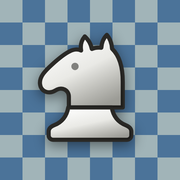
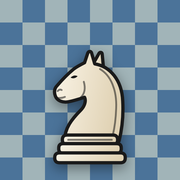
MK 1.5: entran las piezas de franco
Se van las que habia dibujado yo (el caballo nunca llego a parecer un caballo)
y entran las doce que armo franco, en SVG sobre viewBox 100x100 con la misma
linea de piso. Cada archivo trae su degrade con id propio (wN-fill, bN-fill,
...), asi que las doce se juntan en un mismo documento sin pisarse: se
verifico antes de mezclarlas.

Se les saca el bloque <metadata> de C2PA: 8 KB por pieza de procedencia que
adentro de la pagina no aporta nada. Las doce pasan de 113 KB a 23 KB.

Los dibujos dejan aire alrededor, asi que se agrandan un 14% tomando como
centro la base (50,94): crecen hacia arriba sin despegarse de la linea de
piso. Revisado que a ese tamano no se corte nada.

Los colores ahora vienen fijos adentro del SVG, no por variables. La tira de
comidas no puede repintarse mas, asi que se aplana con un filtro:
brightness(0) las deja negras conservando el alfa, y en tema oscuro un invert
las pasa a blancas.

Changed region(s): [[0.1944, 0.1667, 0.75, 0.9722]]

diff --git a/index.html b/index.html
@@ -31,10 +31,7 @@
     /* El tablero no cambia con el tema. Las piezas tienen que leerse igual
        a las 3 de la tarde y a las 2 de la manana. */
     --clara:#EAE9D2; --oscura:#4B7399; --marco:#302E2B;
-    --pieza-b-hi:#FFFFFF; --pieza-b-lo:#D2D2CA;
-    --pieza-b-borde:#2A2926; --pieza-b-det:rgba(40,40,36,.38);
-    --pieza-n-hi:#5A5653; --pieza-n-lo:#332F2D;
-    --pieza-n-borde:#1B1918; --pieza-n-det:rgba(228,224,218,.32);
+    /* Las piezas traen sus colores adentro del SVG; no hay variables. */
     /* El anillo va en ambar: un trazo solido no se mezcla con el fondo, asi
        que se lee igual sobre el blanco y sobre el azul. */
     --sel:#E8A621; --jaque:#D94530;
@@ -104,13 +101,17 @@
     display:flex; align-items:center; gap:0; flex:1 1 auto; min-width:0;
     overflow:hidden; height:23px;
   }
-  /* A 22px las comidas van como siluetas planas de un gris medio. Dejarlas
-     del color de la pieza las pierde (la negra sobre el tema oscuro, la
-     blanca sobre el claro) y el contorno a ese tamano no llega ni a un pixel.
-     De que color es cada una ya lo dice la fila en la que esta. */
+  /* A 22px las comidas van como siluetas planas. Los dibujos traen el color
+     adentro, asi que se aplanan con un filtro: brightness(0) las deja negras
+     conservando el alfa, y en el tema oscuro un invert las pasa a blancas.
+     De que color es cada pieza ya lo dice la fila en la que esta. */
   .jug .cap svg{
     width:22px; height:22px; margin-right:-8px;
-    --pz-fill:var(--soft); --pz-line:var(--soft); --pz-det:var(--soft);
+    filter:brightness(0) opacity(.5);
+  }
+  :root[data-tema="oscuro"] .jug .cap svg{filter:brightness(0) invert(1) opacity(.55);}
+  @media (prefers-color-scheme:dark){
+    :root:not([data-tema="claro"]) .jug .cap svg{filter:brightness(0) invert(1) opacity(.55);}
   }
   /* La ventaja de material se ve de los dos lados, como pastilla con signo. */
   .jug .vent{
@@ -335,69 +336,181 @@
 <body>
 
 <svg width="0" height="0" style="position:absolute" aria-hidden="true"><defs>
-  <!-- Juego propio, en el estilo plano con volumen: el relieve sale de un
-       degrade en el cuerpo mas la misma silueta repintada con una sombra que
-       cae hacia abajo y a la derecha. Las seis se apoyan en la misma peana
-       (el peon usa una mas angosta) para que lean como un mismo juego. -->
-  <linearGradient id="gr-b" x1=".22" y1="0" x2=".8" y2="1">
-    <stop offset="0" stop-color="var(--pieza-b-hi)"/><stop offset="1" stop-color="var(--pieza-b-lo)"/>
-  </linearGradient>
-  <linearGradient id="gr-n" x1=".22" y1="0" x2=".8" y2="1">
-    <stop offset="0" stop-color="var(--pieza-n-hi)"/><stop offset="1" stop-color="var(--pieza-n-lo)"/>
-  </linearGradient>
-  <linearGradient id="sombra" x1=".15" y1="0" x2=".7" y2="1">
-    <stop offset="0" stop-color="#000" stop-opacity="0"/>
-    <stop offset=".52" stop-color="#000" stop-opacity="0"/>
-    <stop offset="1" stop-color="#000" stop-opacity=".26"/>
-  </linearGradient>
-
-  <g id="p-base"><path d="M15.4 28.2h14.2c.5 2.9 2.1 4.8 4.6 5.8 1.2.5 1.8 1.1 1.8 2.1v1.2c0 .8-.65 1.45-1.45 1.45H10.45C9.65 38.75 9 38.1 9 37.3v-1.2c0-1 .6-1.6 1.8-2.1 2.5-1 4.1-2.9 4.6-5.8z"/></g>
-  <g id="p-base-ch"><path d="M17.6 28.6h9.8c.45 2.5 1.8 4.1 3.9 5.1 1 .45 1.55 1 1.55 1.9v1.1c0 .7-.58 1.28-1.28 1.28H13.43c-.7 0-1.28-.58-1.28-1.28v-1.1c0-.9.55-1.45 1.55-1.9 2.1-1 3.45-2.6 3.9-5.1z"/></g>
-
-  <g id="g-peon">
-    <circle cx="22.5" cy="11.4" r="4.9"/>
-    <path d="M18 15.6c1.3 1 2.8 1.6 4.5 1.6s3.2-.6 4.5-1.6c2.2 1.7 3.5 4.1 3.5 6.6 0 3.6-2.6 6.2-3.2 8.4H17.7c-.6-2.2-3.2-4.8-3.2-8.4 0-2.5 1.3-4.9 3.5-6.6z"/>
-    <use href="#p-base-ch"/>
+  <!-- Juego de piezas de franco, en viewBox 100x100 con la misma linea de
+       piso para las doce. Cada archivo trae su propio degrade con id propio
+       (wN-fill, bN-fill, ...), por eso se pueden juntar todos en un mismo
+       documento sin pisarse. Los colores vienen fijos en el dibujo: no siguen
+       el tema, igual que el tablero. -->
+  <g id="pz-wP">
+    <defs><linearGradient id="wP-fill" x1="0" y1="0" x2="1" y2="0.25"><stop offset="0" stop-color="#FBF5E8"/><stop offset="1" stop-color="#E0D2B4"/></linearGradient></defs>
+    <g stroke-linejoin="round" stroke-linecap="round">
+    <path d="M 35.6 84 C 36 79 38.7 76.1 40.5 75.5 C 41.7 69.5 44.6 70.55 44.6 66.5 L 55.4 66.5 C 55.4 70.55 58.3 69.5 59.5 75.5 C 61.3 76.1 64 79 64.4 84 Z" fill="url(#wP-fill)" stroke="#1a1a1a" stroke-width="1.8"/>
+    <path d="M 40.8 75.5 Q 50 77.7 59.2 75.5" fill="none" stroke="#1a1a1a" stroke-opacity=".55" stroke-width="1"/>
+    <path d="M 50 47 A 8.2 8.2 0 1 1 49.99 47 Z" fill="url(#wP-fill)" stroke="#1a1a1a" stroke-width="1.8"/>
+    <path d="M 42.7 62.4 L 57.3 62.4 Q 59.5 62.4 59.5 64.6 L 59.5 64.6 Q 59.5 66.8 57.3 66.8 L 42.7 66.8 Q 40.5 66.8 40.5 64.6 L 40.5 64.6 Q 40.5 62.4 42.7 62.4 Z" fill="url(#wP-fill)" stroke="#1a1a1a" stroke-width="1.8"/>
+    <path d="M 37.2 83.5 L 62.8 83.5 Q 65.2 83.5 65.2 85.9 L 65.2 86.4 Q 65.2 88.8 62.8 88.8 L 37.2 88.8 Q 34.8 88.8 34.8 86.4 L 34.8 85.9 Q 34.8 83.5 37.2 83.5 Z" fill="url(#wP-fill)" stroke="#1a1a1a" stroke-width="1.8"/>
+    <path d="M 35.2 88.6 L 64.8 88.6 Q 67.4 88.6 67.4 91.2 L 67.4 91.4 Q 67.4 94 64.8 94 L 35.2 94 Q 32.6 94 32.6 91.4 L 32.6 91.2 Q 32.6 88.6 35.2 88.6 Z" fill="url(#wP-fill)" stroke="#1a1a1a" stroke-width="1.8"/>
+    </g>
   </g>
-  <g id="g-torre">
-    <path d="M11.4 8.8h5v3.1h4.1V8.8h4v3.1h4.1V8.8h5v7.2H11.4z"/>
-    <path d="M10.4 16h24.2c.75 0 1.35.6 1.35 1.35v1.5c0 .75-.6 1.35-1.35 1.35H10.4c-.75 0-1.35-.6-1.35-1.35v-1.5c0-.75.6-1.35 1.35-1.35z"/>
-    <path d="M13.8 20.2h17.4l-1.5 8H15.3z"/>
-    <use href="#p-base"/>
+  <g id="pz-bP">
+    <defs><linearGradient id="bP-fill" x1="0" y1="0" x2="1" y2="0.25"><stop offset="0" stop-color="#4a4a4a"/><stop offset="1" stop-color="#1a1a1a"/></linearGradient></defs>
+    <g stroke-linejoin="round" stroke-linecap="round">
+    <path d="M 35.6 84 C 36 79 38.7 76.1 40.5 75.5 C 41.7 69.5 44.6 70.55 44.6 66.5 L 55.4 66.5 C 55.4 70.55 58.3 69.5 59.5 75.5 C 61.3 76.1 64 79 64.4 84 Z" fill="url(#bP-fill)" stroke="#0a0a0a" stroke-width="1.8"/>
+    <path d="M 40.8 75.5 Q 50 77.7 59.2 75.5" fill="none" stroke="#8a8a8a" stroke-opacity=".55" stroke-width="1"/>
+    <path d="M 50 47 A 8.2 8.2 0 1 1 49.99 47 Z" fill="url(#bP-fill)" stroke="#0a0a0a" stroke-width="1.8"/>
+    <path d="M 42.7 62.4 L 57.3 62.4 Q 59.5 62.4 59.5 64.6 L 59.5 64.6 Q 59.5 66.8 57.3 66.8 L 42.7 66.8 Q 40.5 66.8 40.5 64.6 L 40.5 64.6 Q 40.5 62.4 42.7 62.4 Z" fill="url(#bP-fill)" stroke="#0a0a0a" stroke-width="1.8"/>
+    <path d="M 37.2 83.5 L 62.8 83.5 Q 65.2 83.5 65.2 85.9 L 65.2 86.4 Q 65.2 88.8 62.8 88.8 L 37.2 88.8 Q 34.8 88.8 34.8 86.4 L 34.8 85.9 Q 34.8 83.5 37.2 83.5 Z" fill="url(#bP-fill)" stroke="#0a0a0a" stroke-width="1.8"/>
+    <path d="M 35.2 88.6 L 64.8 88.6 Q 67.4 88.6 67.4 91.2 L 67.4 91.4 Q 67.4 94 64.8 94 L 35.2 94 Q 32.6 94 32.6 91.4 L 32.6 91.2 Q 32.6 88.6 35.2 88.6 Z" fill="url(#bP-fill)" stroke="#0a0a0a" stroke-width="1.8"/>
+    </g>
   </g>
-  <g id="g-alfil">
-    <circle cx="22.5" cy="7" r="2.1"/>
-    <path d="M22.5 9.2c4.2 3.3 7.3 7.4 7.3 11.1 0 3.7-3.3 6-7.3 6s-7.3-2.3-7.3-6c0-3.7 3.1-7.8 7.3-11.1z"/>
-    <path d="M15.8 25.9h13.4c.8 1.2 1.3 2.3 1.4 3.5H14.4c.1-1.2.6-2.3 1.4-3.5z"/>
-    <use href="#p-base"/>
+  <g id="pz-wN">
+    <defs><linearGradient id="wN-fill" x1="0" y1="0" x2="1" y2="0.25"><stop offset="0" stop-color="#FBF5E8"/><stop offset="1" stop-color="#E0D2B4"/></linearGradient></defs>
+    <g stroke-linejoin="round" stroke-linecap="round">
+    <path d="M 51.5 37 L 55 30.8 C 55.6 30 56.6 30.3 56.7 31.2 L 57.4 38.6 Z" fill="url(#wN-fill)" stroke="#1a1a1a" stroke-width="1.8" transform="translate(0 3)"/>
+    <path d="M 36 79 C 36 72 40 67 45 62 C 47 60 48 57 47 55 C 44 56 41 57 38 57.5 C 35 58 32 57 31 54.5 C 30 52 30.5 50 32 48.5 C 35 45 38 42 41 39.5 C 43 38 45 37 47 36 L 48.8 30.6 C 49.3 29.6 50.3 29.6 50.8 30.4 L 52.6 36.6 C 61 38 67.5 45.5 68 57 C 68.5 66 67.5 73 66 79 Z" fill="url(#wN-fill)" stroke="#1a1a1a" stroke-width="1.8" transform="translate(0 3)"/>
+    <path d="M 39.3 44.2 Q 41.2 42.4 43.2 43.4 Q 41.4 45.2 39.3 44.2 Z" fill="#1a1a1a" stroke="none" transform="translate(0 3)"/>
+    <path d="M 32.2 51.6 Q 33.2 50.4 34.4 51" fill="none" stroke="#1a1a1a" stroke-opacity=".55" stroke-width="1" transform="translate(0 3)"/>
+    <path d="M 31.6 55.2 Q 34 55.8 36.2 54.8" fill="none" stroke="#1a1a1a" stroke-opacity=".55" stroke-width="1" transform="translate(0 3)"/>
+    <path d="M 46.6 46.5 C 47.6 50 47 53 45 55" fill="none" stroke="#1a1a1a" stroke-opacity=".55" stroke-width="1" transform="translate(0 3)"/>
+    <path d="M 55.5 39.5 C 61.5 43 64.8 51 64.4 61 C 64.2 67 63.5 72 62.5 76" fill="none" stroke="#1a1a1a" stroke-opacity=".55" stroke-width="1" transform="translate(0 3)"/>
+    <path d="M 37.4 78.8 L 62.6 78.8 Q 65.2 78.8 65.2 81.4 L 65.2 81.4 Q 65.2 84 62.6 84 L 37.4 84 Q 34.8 84 34.8 81.4 L 34.8 81.4 Q 34.8 78.8 37.4 78.8 Z" fill="url(#wN-fill)" stroke="#1a1a1a" stroke-width="1.8"/>
+    <path d="M 38 81.4 L 62 81.4" fill="none" stroke="#1a1a1a" stroke-opacity=".55" stroke-width="1"/>
+    <path d="M 35.2 83.5 L 64.8 83.5 Q 67.2 83.5 67.2 85.9 L 67.2 86.4 Q 67.2 88.8 64.8 88.8 L 35.2 88.8 Q 32.8 88.8 32.8 86.4 L 32.8 85.9 Q 32.8 83.5 35.2 83.5 Z" fill="url(#wN-fill)" stroke="#1a1a1a" stroke-width="1.8"/>
+    <path d="M 33.2 88.6 L 66.8 88.6 Q 69.4 88.6 69.4 91.2 L 69.4 91.4 Q 69.4 94 66.8 94 L 33.2 94 Q 30.6 94 30.6 91.4 L 30.6 91.2 Q 30.6 88.6 33.2 88.6 Z" fill="url(#wN-fill)" stroke="#1a1a1a" stroke-width="1.8"/>
+    </g>
   </g>
-  <g id="g-dama">
-    <circle cx="9.6" cy="14.6" r="2.4"/><circle cx="16" cy="11.2" r="2.4"/>
-    <circle cx="22.5" cy="9.8" r="2.6"/>
-    <circle cx="29" cy="11.2" r="2.4"/><circle cx="35.4" cy="14.6" r="2.4"/>
-    <path d="M10.2 16.2l3.4 11.4h17.8l3.4-11.4-5.9 5.2-2.7-8.2-3.3 8.6h-2.8l-3.3-8.6-2.7 8.2z"/>
-    <path d="M13.2 27.6h18.6c.7 0 1.25.55 1.25 1.25v.7c0 .7-.55 1.25-1.25 1.25H13.2c-.7 0-1.25-.55-1.25-1.25v-.7c0-.7.55-1.25 1.25-1.25z"/>
-    <use href="#p-base"/>
+  <g id="pz-bN">
+    <defs><linearGradient id="bN-fill" x1="0" y1="0" x2="1" y2="0.25"><stop offset="0" stop-color="#4a4a4a"/><stop offset="1" stop-color="#1a1a1a"/></linearGradient></defs>
+    <g stroke-linejoin="round" stroke-linecap="round">
+    <path d="M 51.5 37 L 55 30.8 C 55.6 30 56.6 30.3 56.7 31.2 L 57.4 38.6 Z" fill="url(#bN-fill)" stroke="#0a0a0a" stroke-width="1.8" transform="translate(0 3)"/>
+    <path d="M 36 79 C 36 72 40 67 45 62 C 47 60 48 57 47 55 C 44 56 41 57 38 57.5 C 35 58 32 57 31 54.5 C 30 52 30.5 50 32 48.5 C 35 45 38 42 41 39.5 C 43 38 45 37 47 36 L 48.8 30.6 C 49.3 29.6 50.3 29.6 50.8 30.4 L 52.6 36.6 C 61 38 67.5 45.5 68 57 C 68.5 66 67.5 73 66 79 Z" fill="url(#bN-fill)" stroke="#0a0a0a" stroke-width="1.8" transform="translate(0 3)"/>
+    <path d="M 39.3 44.2 Q 41.2 42.4 43.2 43.4 Q 41.4 45.2 39.3 44.2 Z" fill="#9a9a9a" stroke="none" transform="translate(0 3)"/>
+    <path d="M 32.2 51.6 Q 33.2 50.4 34.4 51" fill="none" stroke="#8a8a8a" stroke-opacity=".55" stroke-width="1" transform="translate(0 3)"/>
+    <path d="M 31.6 55.2 Q 34 55.8 36.2 54.8" fill="none" stroke="#8a8a8a" stroke-opacity=".55" stroke-width="1" transform="translate(0 3)"/>
+    <path d="M 46.6 46.5 C 47.6 50 47 53 45 55" fill="none" stroke="#8a8a8a" stroke-opacity=".55" stroke-width="1" transform="translate(0 3)"/>
+    <path d="M 55.5 39.5 C 61.5 43 64.8 51 64.4 61 C 64.2 67 63.5 72 62.5 76" fill="none" stroke="#8a8a8a" stroke-opacity=".55" stroke-width="1" transform="translate(0 3)"/>
+    <path d="M 37.4 78.8 L 62.6 78.8 Q 65.2 78.8 65.2 81.4 L 65.2 81.4 Q 65.2 84 62.6 84 L 37.4 84 Q 34.8 84 34.8 81.4 L 34.8 81.4 Q 34.8 78.8 37.4 78.8 Z" fill="url(#bN-fill)" stroke="#0a0a0a" stroke-width="1.8"/>
+    <path d="M 38 81.4 L 62 81.4" fill="none" stroke="#8a8a8a" stroke-opacity=".55" stroke-width="1"/>
+    <path d="M 35.2 83.5 L 64.8 83.5 Q 67.2 83.5 67.2 85.9 L 67.2 86.4 Q 67.2 88.8 64.8 88.8 L 35.2 88.8 Q 32.8 88.8 32.8 86.4 L 32.8 85.9 Q 32.8 83.5 35.2 83.5 Z" fill="url(#bN-fill)" stroke="#0a0a0a" stroke-width="1.8"/>
+    <path d="M 33.2 88.6 L 66.8 88.6 Q 69.4 88.6 69.4 91.2 L 69.4 91.4 Q 69.4 94 66.8 94 L 33.2 94 Q 30.6 94 30.6 91.4 L 30.6 91.2 Q 30.6 88.6 33.2 88.6 Z" fill="url(#bN-fill)" stroke="#0a0a0a" stroke-width="1.8"/>
+    </g>
   </g>
-  <g id="g-rey">
-    <path d="M20.9 4.6h3.2v3.2h3.2v2.8h-3.2v3.6h-3.2v-3.6h-3.2V7.8h3.2z"/>
-    <path d="M22.5 13.9c4.2 0 7.5 1.8 9.4 4.4 2.5 3.5 1.9 7.9-.9 10.6H14c-2.8-2.7-3.4-7.1-.9-10.6 1.9-2.6 5.2-4.4 9.4-4.4z"/>
-    <use href="#p-base"/>
+  <g id="pz-wB">
+    <defs><linearGradient id="wB-fill" x1="0" y1="0" x2="1" y2="0.25"><stop offset="0" stop-color="#FBF5E8"/><stop offset="1" stop-color="#E0D2B4"/></linearGradient></defs>
+    <g stroke-linejoin="round" stroke-linecap="round">
+    <path d="M 34.9 84 C 35.3 79 38.23 76.1 40.03 75.5 C 41.23 69.5 45 67.53 45 61 L 55 61 C 55 67.53 58.77 69.5 59.97 75.5 C 61.77 76.1 64.7 79 65.1 84 Z" fill="url(#wB-fill)" stroke="#1a1a1a" stroke-width="1.8"/>
+    <path d="M 40.33 75.5 Q 50 77.7 59.67 75.5" fill="none" stroke="#1a1a1a" stroke-opacity=".55" stroke-width="1"/>
+    <path d="M 44 55 C 38 51 37.5 43.5 41 38.5 C 44 34.8 47 33.6 50 32 C 53 33.6 56 34.8 59 38.5 C 62.5 43.5 62 51 56 55 Z" fill="url(#wB-fill)" stroke="#1a1a1a" stroke-width="1.8"/>
+    <path d="M 50 26 A 3 3 0 1 1 49.99 26 Z" fill="url(#wB-fill)" stroke="#1a1a1a" stroke-width="1.8"/>
+    <path d="M 44.2 57.6 L 55.8 57.6 Q 57.5 57.6 57.5 59.3 L 57.5 59.3 Q 57.5 61 55.8 61 L 44.2 61 Q 42.5 61 42.5 59.3 L 42.5 59.3 Q 42.5 57.6 44.2 57.6 Z" fill="url(#wB-fill)" stroke="#1a1a1a" stroke-width="1.8"/>
+    <path d="M 42.2 53.4 L 57.8 53.4 Q 60 53.4 60 55.6 L 60 55.6 Q 60 57.8 57.8 57.8 L 42.2 57.8 Q 40 57.8 40 55.6 L 40 55.6 Q 40 53.4 42.2 53.4 Z" fill="url(#wB-fill)" stroke="#1a1a1a" stroke-width="1.8"/>
+    <path d="M 52.6 40.5 L 47.6 46.5" fill="none" stroke="#1a1a1a" stroke-width="2.4"/>
+    <path d="M 36 83.5 L 64 83.5 Q 66.4 83.5 66.4 85.9 L 66.4 86.4 Q 66.4 88.8 64 88.8 L 36 88.8 Q 33.6 88.8 33.6 86.4 L 33.6 85.9 Q 33.6 83.5 36 83.5 Z" fill="url(#wB-fill)" stroke="#1a1a1a" stroke-width="1.8"/>
+    <path d="M 34 88.6 L 66 88.6 Q 68.6 88.6 68.6 91.2 L 68.6 91.4 Q 68.6 94 66 94 L 34 94 Q 31.4 94 31.4 91.4 L 31.4 91.2 Q 31.4 88.6 34 88.6 Z" fill="url(#wB-fill)" stroke="#1a1a1a" stroke-width="1.8"/>
+    </g>
   </g>
-  <g id="g-caballo">
-    <path d="M19.6 9.6c-.3-1.7.1-3.3 1.2-4.6 1.2 1.1 2 2.5 2.3 4.1 1-.4 2-.5 3.1-.4.1-1.7.7-3.1 1.8-4.2 1.1 1.3 1.6 2.8 1.7 4.5 2.4 2.3 3.5 5.9 3.5 10.8v8.4H15.6v-3.5c0-2.2-2.3-3.4-4.3-2.1-2.3 1.4-4.8.4-5.1-1.9-.4-2.5 1.8-4.6 4-6.6 2.1-1.9 4-3.4 5.6-4.2 1.3-.7 2.7-.8 3.8-.3z"/>
-    <use href="#p-base"/>
+  <g id="pz-bB">
+    <defs><linearGradient id="bB-fill" x1="0" y1="0" x2="1" y2="0.25"><stop offset="0" stop-color="#4a4a4a"/><stop offset="1" stop-color="#1a1a1a"/></linearGradient></defs>
+    <g stroke-linejoin="round" stroke-linecap="round">
+    <path d="M 34.9 84 C 35.3 79 38.23 76.1 40.03 75.5 C 41.23 69.5 45 67.53 45 61 L 55 61 C 55 67.53 58.77 69.5 59.97 75.5 C 61.77 76.1 64.7 79 65.1 84 Z" fill="url(#bB-fill)" stroke="#0a0a0a" stroke-width="1.8"/>
+    <path d="M 40.33 75.5 Q 50 77.7 59.67 75.5" fill="none" stroke="#8a8a8a" stroke-opacity=".55" stroke-width="1"/>
+    <path d="M 44 55 C 38 51 37.5 43.5 41 38.5 C 44 34.8 47 33.6 50 32 C 53 33.6 56 34.8 59 38.5 C 62.5 43.5 62 51 56 55 Z" fill="url(#bB-fill)" stroke="#0a0a0a" stroke-width="1.8"/>
+    <path d="M 50 26 A 3 3 0 1 1 49.99 26 Z" fill="url(#bB-fill)" stroke="#0a0a0a" stroke-width="1.8"/>
+    <path d="M 44.2 57.6 L 55.8 57.6 Q 57.5 57.6 57.5 59.3 L 57.5 59.3 Q 57.5 61 55.8 61 L 44.2 61 Q 42.5 61 42.5 59.3 L 42.5 59.3 Q 42.5 57.6 44.2 57.6 Z" fill="url(#bB-fill)" stroke="#0a0a0a" stroke-width="1.8"/>
+    <path d="M 42.2 53.4 L 57.8 53.4 Q 60 53.4 60 55.6 L 60 55.6 Q 60 57.8 57.8 57.8 L 42.2 57.8 Q 40 57.8 40 55.6 L 40 55.6 Q 40 53.4 42.2 53.4 Z" fill="url(#bB-fill)" stroke="#0a0a0a" stroke-width="1.8"/>
+    <path d="M 52.6 40.5 L 47.6 46.5" fill="none" stroke="#9a9a9a" stroke-width="2.4"/>
+    <path d="M 36 83.5 L 64 83.5 Q 66.4 83.5 66.4 85.9 L 66.4 86.4 Q 66.4 88.8 64 88.8 L 36 88.8 Q 33.6 88.8 33.6 86.4 L 33.6 85.9 Q 33.6 83.5 36 83.5 Z" fill="url(#bB-fill)" stroke="#0a0a0a" stroke-width="1.8"/>
+    <path d="M 34 88.6 L 66 88.6 Q 68.6 88.6 68.6 91.2 L 68.6 91.4 Q 68.6 94 66 94 L 34 94 Q 31.4 94 31.4 91.4 L 31.4 91.2 Q 31.4 88.6 34 88.6 Z" fill="url(#bB-fill)" stroke="#0a0a0a" stroke-width="1.8"/>
+    </g>
   </g>
-
-  <!-- Lo minimo que hace falta para que se entienda cada forma. -->
-  <g id="d-peon"><path d="M18.2 15.7c2.6 1.7 5.9 1.7 8.5 0"/></g>
-  <g id="d-torre"><path d="M13.8 20.2h17.4"/></g>
-  <g id="d-alfil"><path d="M20 13.9l5 5"/></g>
-  <g id="d-dama"><path d="M13.6 27.6h17.8"/></g>
-  <g id="d-rey"><path d="M22.5 15v9.6M17.9 19.8h9.2"/></g>
-  <g id="d-caballo"><circle cx="17.6" cy="14.8" r="1.2" stroke="none"/></g>
-  <g id="d-base"><path d="M15.4 28.2h14.2"/></g>
-  <g id="d-base-ch"><path d="M17.6 28.6h9.8"/></g>
+  <g id="pz-wR">
+    <defs><linearGradient id="wR-fill" x1="0" y1="0" x2="1" y2="0.25"><stop offset="0" stop-color="#FBF5E8"/><stop offset="1" stop-color="#E0D2B4"/></linearGradient></defs>
+    <g stroke-linejoin="round" stroke-linecap="round">
+    <path d="M 32.6 84 C 33 79 34.28 76.1 36.08 75.5 C 37.28 69.5 39.4 59.55 39.4 46.5 L 60.6 46.5 C 60.6 59.55 62.72 69.5 63.92 75.5 C 65.72 76.1 67 79 67.4 84 Z" fill="url(#wR-fill)" stroke="#1a1a1a" stroke-width="1.8"/>
+    <path d="M 36.38 75.5 Q 50 77.7 63.62 75.5" fill="none" stroke="#1a1a1a" stroke-opacity=".55" stroke-width="1"/>
+    <path d="M 36.5 42.8 L 36.5 29.5 L 42.2 29.5 L 42.2 33.8 L 47.1 33.8 L 47.1 29.5 L 52.9 29.5 L 52.9 33.8 L 57.8 33.8 L 57.8 29.5 L 63.5 29.5 L 63.5 42.8 Z" fill="url(#wR-fill)" stroke="#1a1a1a" stroke-width="1.8"/>
+    <path d="M 39.3 42.2 L 60.7 42.2 Q 63 42.2 63 44.5 L 63 44.5 Q 63 46.8 60.7 46.8 L 39.3 46.8 Q 37 46.8 37 44.5 L 37 44.5 Q 37 42.2 39.3 42.2 Z" fill="url(#wR-fill)" stroke="#1a1a1a" stroke-width="1.8"/>
+    <path d="M 34 83.5 L 66 83.5 Q 68.4 83.5 68.4 85.9 L 68.4 86.4 Q 68.4 88.8 66 88.8 L 34 88.8 Q 31.6 88.8 31.6 86.4 L 31.6 85.9 Q 31.6 83.5 34 83.5 Z" fill="url(#wR-fill)" stroke="#1a1a1a" stroke-width="1.8"/>
+    <path d="M 32 88.6 L 68 88.6 Q 70.6 88.6 70.6 91.2 L 70.6 91.4 Q 70.6 94 68 94 L 32 94 Q 29.4 94 29.4 91.4 L 29.4 91.2 Q 29.4 88.6 32 88.6 Z" fill="url(#wR-fill)" stroke="#1a1a1a" stroke-width="1.8"/>
+    </g>
+  </g>
+  <g id="pz-bR">
+    <defs><linearGradient id="bR-fill" x1="0" y1="0" x2="1" y2="0.25"><stop offset="0" stop-color="#4a4a4a"/><stop offset="1" stop-color="#1a1a1a"/></linearGradient></defs>
+    <g stroke-linejoin="round" stroke-linecap="round">
+    <path d="M 32.6 84 C 33 79 34.28 76.1 36.08 75.5 C 37.28 69.5 39.4 59.55 39.4 46.5 L 60.6 46.5 C 60.6 59.55 62.72 69.5 63.92 75.5 C 65.72 76.1 67 79 67.4 84 Z" fill="url(#bR-fill)" stroke="#0a0a0a" stroke-width="1.8"/>
+    <path d="M 36.38 75.5 Q 50 77.7 63.62 75.5" fill="none" stroke="#8a8a8a" stroke-opacity=".55" stroke-width="1"/>
+    <path d="M 36.5 42.8 L 36.5 29.5 L 42.2 29.5 L 42.2 33.8 L 47.1 33.8 L 47.1 29.5 L 52.9 29.5 L 52.9 33.8 L 57.8 33.8 L 57.8 29.5 L 63.5 29.5 L 63.5 42.8 Z" fill="url(#bR-fill)" stroke="#0a0a0a" stroke-width="1.8"/>
+    <path d="M 39.3 42.2 L 60.7 42.2 Q 63 42.2 63 44.5 L 63 44.5 Q 63 46.8 60.7 46.8 L 39.3 46.8 Q 37 46.8 37 44.5 L 37 44.5 Q 37 42.2 39.3 42.2 Z" fill="url(#bR-fill)" stroke="#0a0a0a" stroke-width="1.8"/>
+    <path d="M 34 83.5 L 66 83.5 Q 68.4 83.5 68.4 85.9 L 68.4 86.4 Q 68.4 88.8 66 88.8 L 34 88.8 Q 31.6 88.8 31.6 86.4 L 31.6 85.9 Q 31.6 83.5 34 83.5 Z" fill="url(#bR-fill)" stroke="#0a0a0a" stroke-width="1.8"/>
+    <path d="M 32 88.6 L 68 88.6 Q 70.6 88.6 70.6 91.2 L 70.6 91.4 Q 70.6 94 68 94 L 32 94 Q 29.4 94 29.4 91.4 L 29.4 91.2 Q 29.4 88.6 32 88.6 Z" fill="url(#bR-fill)" stroke="#0a0a0a" stroke-width="1.8"/>
+    </g>
+  </g>
+  <g id="pz-wQ">
+    <defs><linearGradient id="wQ-fill" x1="0" y1="0" x2="1" y2="0.25"><stop offset="0" stop-color="#FBF5E8"/><stop offset="1" stop-color="#E0D2B4"/></linearGradient></defs>
+    <g stroke-linejoin="round" stroke-linecap="round">
+    <path d="M 32.9 84 C 33.3 79 36.91 76.1 38.71 75.5 C 39.91 69.5 44.4 63.4 44.4 53.5 L 55.6 53.5 C 55.6 63.4 60.09 69.5 61.29 75.5 C 63.09 76.1 66.7 79 67.1 84 Z" fill="url(#wQ-fill)" stroke="#1a1a1a" stroke-width="1.8"/>
+    <path d="M 39.01 75.5 Q 50 77.7 60.99 75.5" fill="none" stroke="#1a1a1a" stroke-opacity=".55" stroke-width="1"/>
+    <path d="M 44.5 48 C 40 45 36 40 34 32 L 38.6 38 L 41 28 L 45.6 35.6 L 50 25 L 54.4 35.6 L 59 28 L 61.4 38 L 66 32 C 64 40 60 45 55.5 48 Z" fill="url(#wQ-fill)" stroke="#1a1a1a" stroke-width="1.8"/>
+    <path d="M 34 27.4 A 2.4 2.4 0 1 1 33.99 27.4 Z" fill="url(#wQ-fill)" stroke="#1a1a1a" stroke-width="1.8"/>
+    <path d="M 41 23.4 A 2.4 2.4 0 1 1 40.99 23.4 Z" fill="url(#wQ-fill)" stroke="#1a1a1a" stroke-width="1.8"/>
+    <path d="M 50 20.4 A 2.4 2.4 0 1 1 49.99 20.4 Z" fill="url(#wQ-fill)" stroke="#1a1a1a" stroke-width="1.8"/>
+    <path d="M 59 23.4 A 2.4 2.4 0 1 1 58.99 23.4 Z" fill="url(#wQ-fill)" stroke="#1a1a1a" stroke-width="1.8"/>
+    <path d="M 66 27.4 A 2.4 2.4 0 1 1 65.99 27.4 Z" fill="url(#wQ-fill)" stroke="#1a1a1a" stroke-width="1.8"/>
+    <path d="M 43.3 50.2 L 56.7 50.2 Q 58.5 50.2 58.5 52 L 58.5 52 Q 58.5 53.8 56.7 53.8 L 43.3 53.8 Q 41.5 53.8 41.5 52 L 41.5 52 Q 41.5 50.2 43.3 50.2 Z" fill="url(#wQ-fill)" stroke="#1a1a1a" stroke-width="1.8"/>
+    <path d="M 41.4 45.8 L 58.6 45.8 Q 61 45.8 61 48.2 L 61 48.2 Q 61 50.6 58.6 50.6 L 41.4 50.6 Q 39 50.6 39 48.2 L 39 48.2 Q 39 45.8 41.4 45.8 Z" fill="url(#wQ-fill)" stroke="#1a1a1a" stroke-width="1.8"/>
+    <path d="M 39.5 42.5 Q 50 45 60.5 42.5" fill="none" stroke="#1a1a1a" stroke-opacity=".55" stroke-width="1"/>
+    <path d="M 34 83.5 L 66 83.5 Q 68.4 83.5 68.4 85.9 L 68.4 86.4 Q 68.4 88.8 66 88.8 L 34 88.8 Q 31.6 88.8 31.6 86.4 L 31.6 85.9 Q 31.6 83.5 34 83.5 Z" fill="url(#wQ-fill)" stroke="#1a1a1a" stroke-width="1.8"/>
+    <path d="M 32 88.6 L 68 88.6 Q 70.6 88.6 70.6 91.2 L 70.6 91.4 Q 70.6 94 68 94 L 32 94 Q 29.4 94 29.4 91.4 L 29.4 91.2 Q 29.4 88.6 32 88.6 Z" fill="url(#wQ-fill)" stroke="#1a1a1a" stroke-width="1.8"/>
+    </g>
+  </g>
+  <g id="pz-bQ">
+    <defs><linearGradient id="bQ-fill" x1="0" y1="0" x2="1" y2="0.25"><stop offset="0" stop-color="#4a4a4a"/><stop offset="1" stop-color="#1a1a1a"/></linearGradient></defs>
+    <g stroke-linejoin="round" stroke-linecap="round">
+    <path d="M 32.9 84 C 33.3 79 36.91 76.1 38.71 75.5 C 39.91 69.5 44.4 63.4 44.4 53.5 L 55.6 53.5 C 55.6 63.4 60.09 69.5 61.29 75.5 C 63.09 76.1 66.7 79 67.1 84 Z" fill="url(#bQ-fill)" stroke="#0a0a0a" stroke-width="1.8"/>
+    <path d="M 39.01 75.5 Q 50 77.7 60.99 75.5" fill="none" stroke="#8a8a8a" stroke-opacity=".55" stroke-width="1"/>
+    <path d="M 44.5 48 C 40 45 36 40 34 32 L 38.6 38 L 41 28 L 45.6 35.6 L 50 25 L 54.4 35.6 L 59 28 L 61.4 38 L 66 32 C 64 40 60 45 55.5 48 Z" fill="url(#bQ-fill)" stroke="#0a0a0a" stroke-width="1.8"/>
+    <path d="M 34 27.4 A 2.4 2.4 0 1 1 33.99 27.4 Z" fill="url(#bQ-fill)" stroke="#0a0a0a" stroke-width="1.8"/>
+    <path d="M 41 23.4 A 2.4 2.4 0 1 1 40.99 23.4 Z" fill="url(#bQ-fill)" stroke="#0a0a0a" stroke-width="1.8"/>
+    <path d="M 50 20.4 A 2.4 2.4 0 1 1 49.99 20.4 Z" fill="url(#bQ-fill)" stroke="#0a0a0a" stroke-width="1.8"/>
+    <path d="M 59 23.4 A 2.4 2.4 0 1 1 58.99 23.4 Z" fill="url(#bQ-fill)" stroke="#0a0a0a" stroke-width="1.8"/>
+    <path d="M 66 27.4 A 2.4 2.4 0 1 1 65.99 27.4 Z" fill="url(#bQ-fill)" stroke="#0a0a0a" stroke-width="1.8"/>
+    <path d="M 43.3 50.2 L 56.7 50.2 Q 58.5 50.2 58.5 52 L 58.5 52 Q 58.5 53.8 56.7 53.8 L 43.3 53.8 Q 41.5 53.8 41.5 52 L 41.5 52 Q 41.5 50.2 43.3 50.2 Z" fill="url(#bQ-fill)" stroke="#0a0a0a" stroke-width="1.8"/>
+    <path d="M 41.4 45.8 L 58.6 45.8 Q 61 45.8 61 48.2 L 61 48.2 Q 61 50.6 58.6 50.6 L 41.4 50.6 Q 39 50.6 39 48.2 L 39 48.2 Q 39 45.8 41.4 45.8 Z" fill="url(#bQ-fill)" stroke="#0a0a0a" stroke-width="1.8"/>
+    <path d="M 39.5 42.5 Q 50 45 60.5 42.5" fill="none" stroke="#8a8a8a" stroke-opacity=".55" stroke-width="1"/>
+    <path d="M 34 83.5 L 66 83.5 Q 68.4 83.5 68.4 85.9 L 68.4 86.4 Q 68.4 88.8 66 88.8 L 34 88.8 Q 31.6 88.8 31.6 86.4 L 31.6 85.9 Q 31.6 83.5 34 83.5 Z" fill="url(#bQ-fill)" stroke="#0a0a0a" stroke-width="1.8"/>
+    <path d="M 32 88.6 L 68 88.6 Q 70.6 88.6 70.6 91.2 L 70.6 91.4 Q 70.6 94 68 94 L 32 94 Q 29.4 94 29.4 91.4 L 29.4 91.2 Q 29.4 88.6 32 88.6 Z" fill="url(#bQ-fill)" stroke="#0a0a0a" stroke-width="1.8"/>
+    </g>
+  </g>
+  <g id="pz-wK">
+    <defs><linearGradient id="wK-fill" x1="0" y1="0" x2="1" y2="0.25"><stop offset="0" stop-color="#FBF5E8"/><stop offset="1" stop-color="#E0D2B4"/></linearGradient></defs>
+    <g stroke-linejoin="round" stroke-linecap="round">
+    <path d="M 32.4 84 C 32.8 79 36.58 76.1 38.38 75.5 C 39.58 69.5 44 59 44 45.5 L 56 45.5 C 56 59 60.42 69.5 61.62 75.5 C 63.42 76.1 67.2 79 67.6 84 Z" fill="url(#wK-fill)" stroke="#1a1a1a" stroke-width="1.8"/>
+    <path d="M 38.68 75.5 Q 50 77.7 61.32 75.5" fill="none" stroke="#1a1a1a" stroke-opacity=".55" stroke-width="1"/>
+    <path d="M 47.3 20 L 47.3 13.6 L 43 13.6 L 43 8.6 L 47.3 8.6 L 47.3 4.8 L 52.7 4.8 L 52.7 8.6 L 57 8.6 L 57 13.6 L 52.7 13.6 L 52.7 20 Z" fill="url(#wK-fill)" stroke="#1a1a1a" stroke-width="1.8"/>
+    <path d="M 43.5 38.5 C 41 34 37 30 37.5 25.8 C 38 21.5 44 19.3 50 19.3 C 56 19.3 62 21.5 62.5 25.8 C 63 30 59 34 56.5 38.5 Z" fill="url(#wK-fill)" stroke="#1a1a1a" stroke-width="1.8"/>
+    <path d="M 47.65 17.3 L 52.35 17.3 Q 54 17.3 54 18.95 L 54 18.95 Q 54 20.6 52.35 20.6 L 47.65 20.6 Q 46 20.6 46 18.95 L 46 18.95 Q 46 17.3 47.65 17.3 Z" fill="url(#wK-fill)" stroke="#1a1a1a" stroke-width="1.8"/>
+    <path d="M 42.7 42.4 L 57.3 42.4 Q 59 42.4 59 44.1 L 59 44.1 Q 59 45.8 57.3 45.8 L 42.7 45.8 Q 41 45.8 41 44.1 L 41 44.1 Q 41 42.4 42.7 42.4 Z" fill="url(#wK-fill)" stroke="#1a1a1a" stroke-width="1.8"/>
+    <path d="M 40.9 37.8 L 59.1 37.8 Q 61.5 37.8 61.5 40.2 L 61.5 40.2 Q 61.5 42.6 59.1 42.6 L 40.9 42.6 Q 38.5 42.6 38.5 40.2 L 38.5 40.2 Q 38.5 37.8 40.9 37.8 Z" fill="url(#wK-fill)" stroke="#1a1a1a" stroke-width="1.8"/>
+    <path d="M 39.3 29.5 Q 50 32 60.7 29.5" fill="none" stroke="#1a1a1a" stroke-opacity=".55" stroke-width="1"/>
+    <path d="M 33.5 83.5 L 66.5 83.5 Q 68.9 83.5 68.9 85.9 L 68.9 86.4 Q 68.9 88.8 66.5 88.8 L 33.5 88.8 Q 31.1 88.8 31.1 86.4 L 31.1 85.9 Q 31.1 83.5 33.5 83.5 Z" fill="url(#wK-fill)" stroke="#1a1a1a" stroke-width="1.8"/>
+    <path d="M 31.5 88.6 L 68.5 88.6 Q 71.1 88.6 71.1 91.2 L 71.1 91.4 Q 71.1 94 68.5 94 L 31.5 94 Q 28.9 94 28.9 91.4 L 28.9 91.2 Q 28.9 88.6 31.5 88.6 Z" fill="url(#wK-fill)" stroke="#1a1a1a" stroke-width="1.8"/>
+    </g>
+  </g>
+  <g id="pz-bK">
+    <defs><linearGradient id="bK-fill" x1="0" y1="0" x2="1" y2="0.25"><stop offset="0" stop-color="#4a4a4a"/><stop offset="1" stop-color="#1a1a1a"/></linearGradient></defs>
+    <g stroke-linejoin="round" stroke-linecap="round">
+    <path d="M 32.4 84 C 32.8 79 36.58 76.1 38.38 75.5 C 39.58 69.5 44 59 44 45.5 L 56 45.5 C 56 59 60.42 69.5 61.62 75.5 C 63.42 76.1 67.2 79 67.6 84 Z" fill="url(#bK-fill)" stroke="#0a0a0a" stroke-width="1.8"/>
+    <path d="M 38.68 75.5 Q 50 77.7 61.32 75.5" fill="none" stroke="#8a8a8a" stroke-opacity=".55" stroke-width="1"/>
+    <path d="M 47.3 20 L 47.3 13.6 L 43 13.6 L 43 8.6 L 47.3 8.6 L 47.3 4.8 L 52.7 4.8 L 52.7 8.6 L 57 8.6 L 57 13.6 L 52.7 13.6 L 52.7 20 Z" fill="url(#bK-fill)" stroke="#0a0a0a" stroke-width="1.8"/>
+    <path d="M 43.5 38.5 C 41 34 37 30 37.5 25.8 C 38 21.5 44 19.3 50 19.3 C 56 19.3 62 21.5 62.5 25.8 C 63 30 59 34 56.5 38.5 Z" fill="url(#bK-fill)" stroke="#0a0a0a" stroke-width="1.8"/>
+    <path d="M 47.65 17.3 L 52.35 17.3 Q 54 17.3 54 18.95 L 54 18.95 Q 54 20.6 52.35 20.6 L 47.65 20.6 Q 46 20.6 46 18.95 L 46 18.95 Q 46 17.3 47.65 17.3 Z" fill="url(#bK-fill)" stroke="#0a0a0a" stroke-width="1.8"/>
+    <path d="M 42.7 42.4 L 57.3 42.4 Q 59 42.4 59 44.1 L 59 44.1 Q 59 45.8 57.3 45.8 L 42.7 45.8 Q 41 45.8 41 44.1 L 41 44.1 Q 41 42.4 42.7 42.4 Z" fill="url(#bK-fill)" stroke="#0a0a0a" stroke-width="1.8"/>
+    <path d="M 40.9 37.8 L 59.1 37.8 Q 61.5 37.8 61.5 40.2 L 61.5 40.2 Q 61.5 42.6 59.1 42.6 L 40.9 42.6 Q 38.5 42.6 38.5 40.2 L 38.5 40.2 Q 38.5 37.8 40.9 37.8 Z" fill="url(#bK-fill)" stroke="#0a0a0a" stroke-width="1.8"/>
+    <path d="M 39.3 29.5 Q 50 32 60.7 29.5" fill="none" stroke="#8a8a8a" stroke-opacity=".55" stroke-width="1"/>
+    <path d="M 33.5 83.5 L 66.5 83.5 Q 68.9 83.5 68.9 85.9 L 68.9 86.4 Q 68.9 88.8 66.5 88.8 L 33.5 88.8 Q 31.1 88.8 31.1 86.4 L 31.1 85.9 Q 31.1 83.5 33.5 83.5 Z" fill="url(#bK-fill)" stroke="#0a0a0a" stroke-width="1.8"/>
+    <path d="M 31.5 88.6 L 68.5 88.6 Q 71.1 88.6 71.1 91.2 L 71.1 91.4 Q 71.1 94 68.5 94 L 31.5 94 Q 28.9 94 28.9 91.4 L 28.9 91.2 Q 28.9 88.6 31.5 88.6 Z" fill="url(#bK-fill)" stroke="#0a0a0a" stroke-width="1.8"/>
+    </g>
+  </g>
 </defs></svg>
 
 <div id="app">
@@ -1135,7 +1248,7 @@ const NIVELES = {
 /* ============================================================================
    INTERFAZ. El nucleo de arriba ya sabe de ajedrez; esto solo lo dibuja.
    ========================================================================== */
-const VERSION = "MK 1.4";
+const VERSION = "MK 1.5";
 const K_ESTADO = "xchess.partida";
 const K_TEMA   = "xchess.tema";
 
@@ -1301,20 +1414,12 @@ const miColor = () => (conf.colorReal || conf.color) === "n" ? NEGRO : BLANCO;
 const soyHumano = c => conf.modo === "dos" || c === miColor();
 
 /* ------------------------------------------------------------ dibujar SVG */
-function svgPieza(p, plano){
-  const t = tipo(p), blanca = colorDe(p) === BLANCO;
-  const g = ["", "peon", "caballo", "alfil", "torre", "dama", "rey"][t];
-  const base = t === PEON ? "d-base-ch" : "d-base";
-  /* `plano` es para la tira de comidas: silueta de un solo color, sin
-     degrade ni sombra, que a 22px es lo unico que se lee. */
-  if (plano) return `<svg viewBox="0 0 45 45"><g fill="var(--soft)" stroke="var(--soft)" stroke-width="1.35" stroke-linejoin="round"><use href="#g-${g}"/></g></svg>`;
-  const bor = blanca ? "var(--pieza-b-borde)" : "var(--pieza-n-borde)";
-  const det = blanca ? "var(--pieza-b-det)" : "var(--pieza-n-det)";
-  return `<svg viewBox="0 0 45 45">
-    <g fill="url(#gr-${blanca ? "b" : "n"})" stroke="${bor}" stroke-width="1.35" stroke-linejoin="round" stroke-linecap="round"><use href="#g-${g}"/></g>
-    <g fill="url(#sombra)" stroke="none"><use href="#g-${g}"/></g>
-    <g fill="none" stroke="${det}" stroke-width="1.1" stroke-linecap="round"><use href="#d-${g}"/><use href="#${base}"/></g>
-  </svg>`;
+function svgPieza(p){
+  const L = ["", "P", "N", "B", "R", "Q", "K"][tipo(p)];
+  /* Los dibujos dejan bastante aire alrededor: se agrandan un poco tomando
+     como centro la base (50,94), asi crecen hacia arriba y no se despegan
+     de la linea de piso. */
+  return `<svg viewBox="0 0 100 100"><g transform="translate(50 94) scale(1.14) translate(-50 -94)"><use href="#pz-${colorDe(p) === BLANCO ? "w" : "b"}${L}"/></g></svg>`;
 }
 
 /* Fila y columna en pantalla, contemplando el tablero dado vuelta. */
@@ -1440,7 +1545,7 @@ function pintarCapturadas(){
     for (const t of [5, 4, 3, 2, 1]){
       const faltan = completo[t] - (vivas[colorPropio][t] || 0);
       /* Las coronaciones pueden dar mas piezas de las que habia: no restar. */
-      for (let i = 0; i < Math.max(0, faltan); i++) html += svgPieza(t | colorPropio, true);
+      for (let i = 0; i < Math.max(0, faltan); i++) html += svgPieza(t | colorPropio);
     }
     elCap.innerHTML = html;
     /* La ventaja se muestra de los dos lados y con signo: el que va arriba la

diff --git a/sw.js b/sw.js
@@ -2,7 +2,7 @@
    Una partida de ajedrez no necesita red para nada, asi que la app tiene que
    abrir siempre: shell cache-first, red primero para la navegacion asi una
    version nueva entra sin que haya que borrar nada a mano. */
-const CACHE = "xchess-mk1.4";
+const CACHE = "xchess-mk1.5";
 const SHELL = ["./", "./index.html", "./apple-touch-icon.png"];
 
 self.addEventListener("install", e => {

diff --git a/README.md b/README.md
@@ -1,6 +1,6 @@
 # xchess
 
-*MK 1.4*
+*MK 1.5*
 
 Ajedrez para el telefono (la interfaz esta en ingles). Contra la maquina o dos jugadores pasando el aparato.
 
@@ -87,6 +87,18 @@ Despues estan los tests de notacion, finales de partida, reglas puntuales
 el mate en una, que se coma lo que cuelga, que no muerda un peon envenenado) y
 uno que arma el Worker igual que la app para confirmar que ese pegote compila y
 devuelve una jugada legal.
+
+## Piezas
+
+El juego de piezas lo armo franco aparte, en SVG sobre un `viewBox` de 100x100
+con la misma linea de piso para las doce. Cada archivo trae su degrade con id
+propio (`wN-fill`, `bN-fill`, ...), asi que las doce entran en el mismo
+documento sin pisarse. Los colores vienen fijos adentro del dibujo: no siguen
+el tema, igual que el tablero.
+
+Al meterlas se les saca el bloque `<metadata>` de procedencia (C2PA): son unos
+8 KB por pieza que adentro de la pagina no aportan nada. Las doce pasan de
+113 KB a 23 KB.
 
 ## Estructura
 
